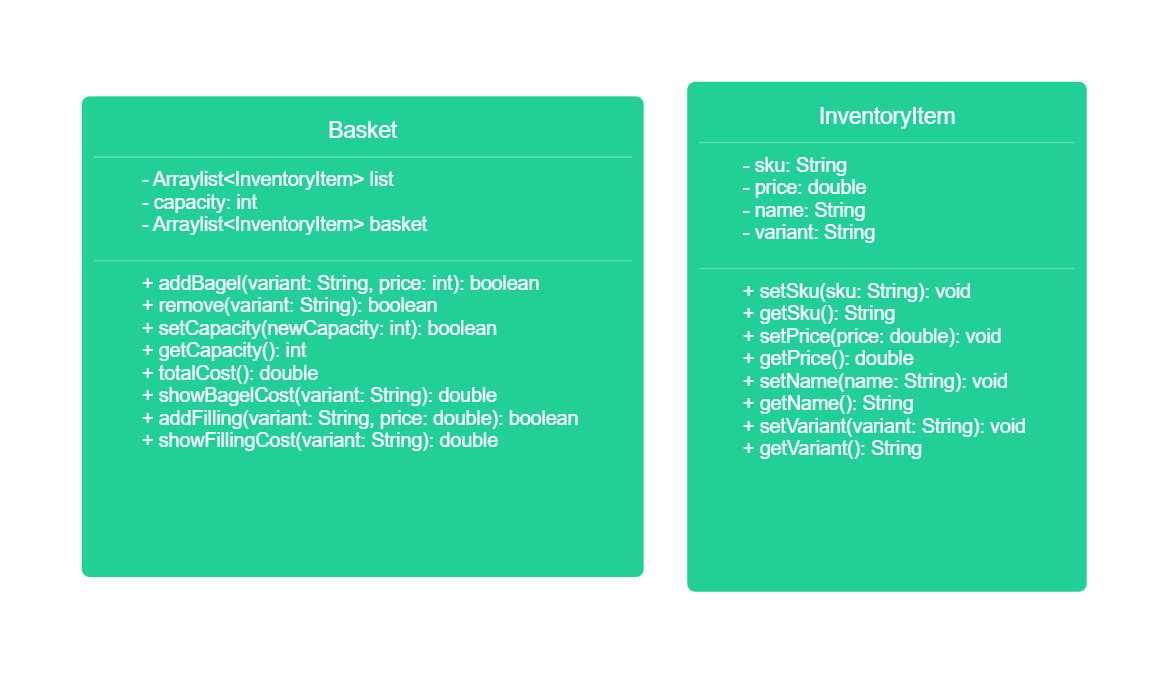
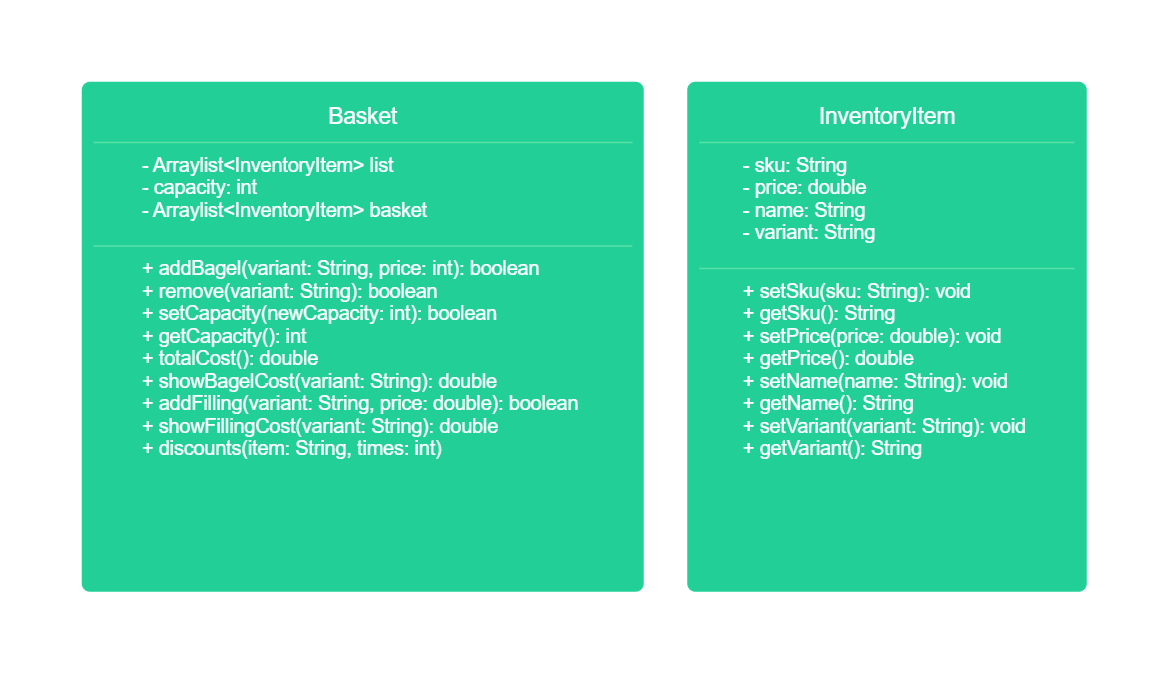
Irene Maniou + extension1

Changed region(s): [[0.0616, 0.0936, 0.5548, 0.6865], [0.0616, 0.8425, 0.5548, 0.9049]]

diff --git a/src/main/java/com/booleanuk/core/Basket.java b/src/main/java/com/booleanuk/core/Basket.java
@@ -1,6 +1,7 @@
 package com.booleanuk.core;
 
 import java.util.ArrayList;
+import java.util.Arrays;
 import java.util.Iterator;
 
 public class Basket {
@@ -137,6 +138,51 @@ public class Basket {
             }
         }
         return 0;
+    }
+
+    public double discounts(String item, int times) {
+        fillList();
+        String[] thisItem = item.split(",");
+        double totalDiscount = 0;
+        double cb = 1.25;
+        boolean isCoffee = false;
+
+        while (times > 0) {
+            if (times >= 12) {
+                times -= 12;
+                totalDiscount += 3.99;
+            } else if (times >= 6) {
+                times -= 6;
+                totalDiscount += 2.49;
+            } else {
+                break;
+            }
+        }
+
+        if (thisItem.length == 1) {
+            for (InventoryItem it : list) {
+                if (it.getVariant().equals(item)) {
+                    totalDiscount += it.getPrice() * times;
+                    break;
+                }
+            }
+        } else {
+            for (String str : thisItem) {
+                for (InventoryItem it : list) {
+                    if (it.getVariant().equals(str)) {
+                        if (it.getName().equals("Coffee")) {
+                            isCoffee = true;
+                        }
+                    }
+                }
+            }
+        }
+
+        if (isCoffee) {
+            totalDiscount = cb * times;
+        }
+
+        return totalDiscount;
     }
 
 

diff --git a/src/test/java/com/booleanuk/core/BasketTest.java b/src/test/java/com/booleanuk/core/BasketTest.java
@@ -87,4 +87,18 @@ public class BasketTest {
         Assertions.assertEquals(0.12, theBasket.showFillingCost("Bacon"));
         Assertions.assertEquals(0, theBasket.showFillingCost("Sauce"));
     }
+
+    @Test
+    public void discounts() {
+        InventoryItem item = new InventoryItem();
+        Basket theBasket = new Basket(item);
+
+        Assertions.assertEquals(2.49, theBasket.discounts("Onion", 6));
+        Assertions.assertEquals(3.99, theBasket.discounts("Plain", 12));
+        Assertions.assertEquals(0.98, theBasket.discounts("Onion", 2));
+        Assertions.assertEquals(2.49, theBasket.discounts("Everything", 6));
+        Assertions.assertEquals(2.97, theBasket.discounts("Black", 3), 0.001);
+        Assertions.assertEquals(5.55, theBasket.discounts("Plain", 16), 0.001);
+        Assertions.assertEquals(1.25, theBasket.discounts("Plain,Black", 1), 0.001);
+    }
 }

diff --git a/domain.md b/domain.md
@@ -1,61 +1,63 @@
-| Classes         | Members                           | Methods                                    | Scenario                         | Results                      |
-|-----------------|-----------------------------------|--------------------------------------------|----------------------------------|------------------------------|
-| `Basket`        | `Arraylist<InventoryItem> list`   | `addBagel(String variant, int price)`      | 1. + 10.                         |                              |
-|                 |                                   |                                            | bagel added successfully         | Output success message       |
-|                 | `int capacity`                    |                                            |                                  | Update the basket list       |
-|                 |                                   |                                            |                                  | Return true                  |
-|                 | `Arraylist<InventoryItem> basket` |                                            | 3.                               |                              |
-|                 |                                   |                                            | fail to add bagel                | Output failure message       |
-|                 |                                   |                                            | basket is full                   | Don't update the basket list |
-|                 |                                   |                                            |                                  | Return false                 |
-|                 |                                   | `remove(String variant)`                   | 2.                               |                              |
-|                 |                                   |                                            | bagel removed successfully       | Output success message       |
-|                 |                                   |                                            |                                  | Update the basket list       |
-|                 |                                   |                                            |                                  | Return true                  |
-|                 |                                   |                                            | 5.                               |                              |
-|                 |                                   |                                            | fail because bagel doesn't exist | Output failure message       |
-|                 |                                   |                                            |                                  | Don't update the basket list |
-|                 |                                   |                                            |                                  | Return false                 |
-|                 |                                   | `setCapacity(int newCapacity)`             | 4.                               |                              |
-|                 |                                   |                                            | change basket capacity           | Output success message       |
-|                 |                                   |                                            |                                  | Update the basket list       |
-|                 |                                   |                                            |                                  | Return true                  |
-|                 |                                   |                                            | 4.                               |                              |
-|                 |                                   | `getCapacity()`                            | Get the capacity of the basket   | Return int                   |
-|                 |                                   |                                            |                                  |                              |
-|                 |                                   |                                            | 4.                               |                              |
-|                 |                                   |                                            | fail to change basket capacity   | Output failure message       |
-|                 |                                   |                                            | there are items in basket        | Don't update basket list     |
-|                 |                                   |                                            |                                  | Return false                 |
-|                 |                                   | `totalCost()`                              | 6.                               |                              |
-|                 |                                   |                                            | there are items in basket        | Return the total cost        |
-|                 |                                   |                                            |                                  | Return double                |
-|                 |                                   |                                            | 6.                               |                              |
-|                 |                                   |                                            | empty basket                     | Return 0                     |
-|                 |                                   |                                            |                                  | Return empty double          |
-|                 |                                   | `showBagelCost(String variant)`            | 7.                               |                              |
-|                 |                                   |                                            | get the cost of a bagel          | Return the cost of a bagel   |
-|                 |                                   |                                            |                                  | Return double                |
-|                 |                                   | `addFilling(String variant, double price)` | 8. + 10.                         |                              |
-|                 |                                   |                                            | add filling successfully         | Output success message       |
-|                 |                                   |                                            |                                  | Update the basket list       |
-|                 |                                   |                                            |                                  | Return true                  |
-|                 |                                   |                                            | 8.                               |                              |
-|                 |                                   |                                            | fail to add filling              | Output failure message       |
-|                 |                                   |                                            | filling doesn't exist            | Don't update basket list     |
-|                 |                                   |                                            |                                  | Return false                 |
-|                 |                                   | `showFillingCost(String variant)`          | 9.                               |                              |
-|                 |                                   |                                            | get the cost of a filling        | Return the cost of a filling |
-|                 |                                   |                                            |                                  | Return double                |
-|                 |                                   |                                            |                                  |                              |
-|                 |                                   |                                            |                                  |                              |
-| `InventoryItem` | `String sku`                      | `setSku()`                                 | Return sku                       | void                         |
-|                 | `double price`                    | `getSku(String sku)`                       | Get the sku                      | Return String                |
-|                 | `String name`                     | `setPrice()`                               | Return price                     | void                         |
-|                 | `String variant`                  | `getPrice(double price)`                   | Get the price                    | Return double                |
-|                 |                                   | `setName()`                                | Return name                      | void                         |
-|                 |                                   | `getName(String name)`                     | Get the name                     | Return String                |
-|                 |                                   | `setVariant()`                             | Return variant                   | void                         |
-|                 |                                   | `getVariant(String variant)`               | Get the variant                  | Return String                |
-|                 |                                   |                                            |                                  |                              |
-|                 |                                   |                                            |                                  |                              |
+| Classes         | Members                           | Methods                                    | Scenario                         | Results                       |
+|-----------------|-----------------------------------|--------------------------------------------|----------------------------------|-------------------------------|
+| `Basket`        | `Arraylist<InventoryItem> list`   | `addBagel(String variant, int price)`      | 1. + 10.                         |                               |
+|                 |                                   |                                            | bagel added successfully         | Output success message        |
+|                 | `int capacity`                    |                                            |                                  | Update the basket list        |
+|                 |                                   |                                            |                                  | Return true                   |
+|                 | `Arraylist<InventoryItem> basket` |                                            | 3.                               |                               |
+|                 |                                   |                                            | fail to add bagel                | Output failure message        |
+|                 |                                   |                                            | basket is full                   | Don't update the basket list  |
+|                 |                                   |                                            |                                  | Return false                  |
+|                 |                                   | `remove(String variant)`                   | 2.                               |                               |
+|                 |                                   |                                            | bagel removed successfully       | Output success message        |
+|                 |                                   |                                            |                                  | Update the basket list        |
+|                 |                                   |                                            |                                  | Return true                   |
+|                 |                                   |                                            | 5.                               |                               |
+|                 |                                   |                                            | fail because bagel doesn't exist | Output failure message        |
+|                 |                                   |                                            |                                  | Don't update the basket list  |
+|                 |                                   |                                            |                                  | Return false                  |
+|                 |                                   | `setCapacity(int newCapacity)`             | 4.                               |                               |
+|                 |                                   |                                            | change basket capacity           | Output success message        |
+|                 |                                   |                                            |                                  | Update the basket list        |
+|                 |                                   |                                            |                                  | Return true                   |
+|                 |                                   |                                            | 4.                               |                               |
+|                 |                                   | `getCapacity()`                            | Get the capacity of the basket   | Return int                    |
+|                 |                                   |                                            |                                  |                               |
+|                 |                                   |                                            | 4.                               |                               |
+|                 |                                   |                                            | fail to change basket capacity   | Output failure message        |
+|                 |                                   |                                            | there are items in basket        | Don't update basket list      |
+|                 |                                   |                                            |                                  | Return false                  |
+|                 |                                   | `totalCost()`                              | 6.                               |                               |
+|                 |                                   |                                            | there are items in basket        | Return the total cost         |
+|                 |                                   |                                            |                                  | Return double                 |
+|                 |                                   |                                            | 6.                               |                               |
+|                 |                                   |                                            | empty basket                     | Return 0                      |
+|                 |                                   |                                            |                                  | Return empty double           |
+|                 |                                   | `showBagelCost(String variant)`            | 7.                               |                               |
+|                 |                                   |                                            | get the cost of a bagel          | Return the cost of a bagel    |
+|                 |                                   |                                            |                                  | Return double                 |
+|                 |                                   | `addFilling(String variant, double price)` | 8. + 10.                         |                               |
+|                 |                                   |                                            | add filling successfully         | Output success message        |
+|                 |                                   |                                            |                                  | Update the basket list        |
+|                 |                                   |                                            |                                  | Return true                   |
+|                 |                                   |                                            | 8.                               |                               |
+|                 |                                   |                                            | fail to add filling              | Output failure message        |
+|                 |                                   |                                            | filling doesn't exist            | Don't update basket list      |
+|                 |                                   |                                            |                                  | Return false                  |
+|                 |                                   | `showFillingCost(String variant)`          | 9.                               |                               |
+|                 |                                   |                                            | get the cost of a filling        | Return the cost of a filling  |
+|                 |                                   |                                            |                                  | Return double                 |
+|                 |                                   | `discounts(String item, int times)`        | Extension 1.                     |                               |
+|                 |                                   |                                            | calculate the discounts of items | Return the price of the items |
+|                 |                                   |                                            |                                  | Return double                 |
+|                 |                                   |                                            |                                  |                               |
+| `InventoryItem` | `String sku`                      | `setSku()`                                 | Return sku                       | void                          |
+|                 | `double price`                    | `getSku(String sku)`                       | Get the sku                      | Return String                 |
+|                 | `String name`                     | `setPrice()`                               | Return price                     | void                          |
+|                 | `String variant`                  | `getPrice(double price)`                   | Get the price                    | Return double                 |
+|                 |                                   | `setName()`                                | Return name                      | void                          |
+|                 |                                   | `getName(String name)`                     | Get the name                     | Return String                 |
+|                 |                                   | `setVariant()`                             | Return variant                   | void                          |
+|                 |                                   | `getVariant(String variant)`               | Get the variant                  | Return String                 |
+|                 |                                   |                                            |                                  |                               |
+|                 |                                   |                                            |                                  |                               |
